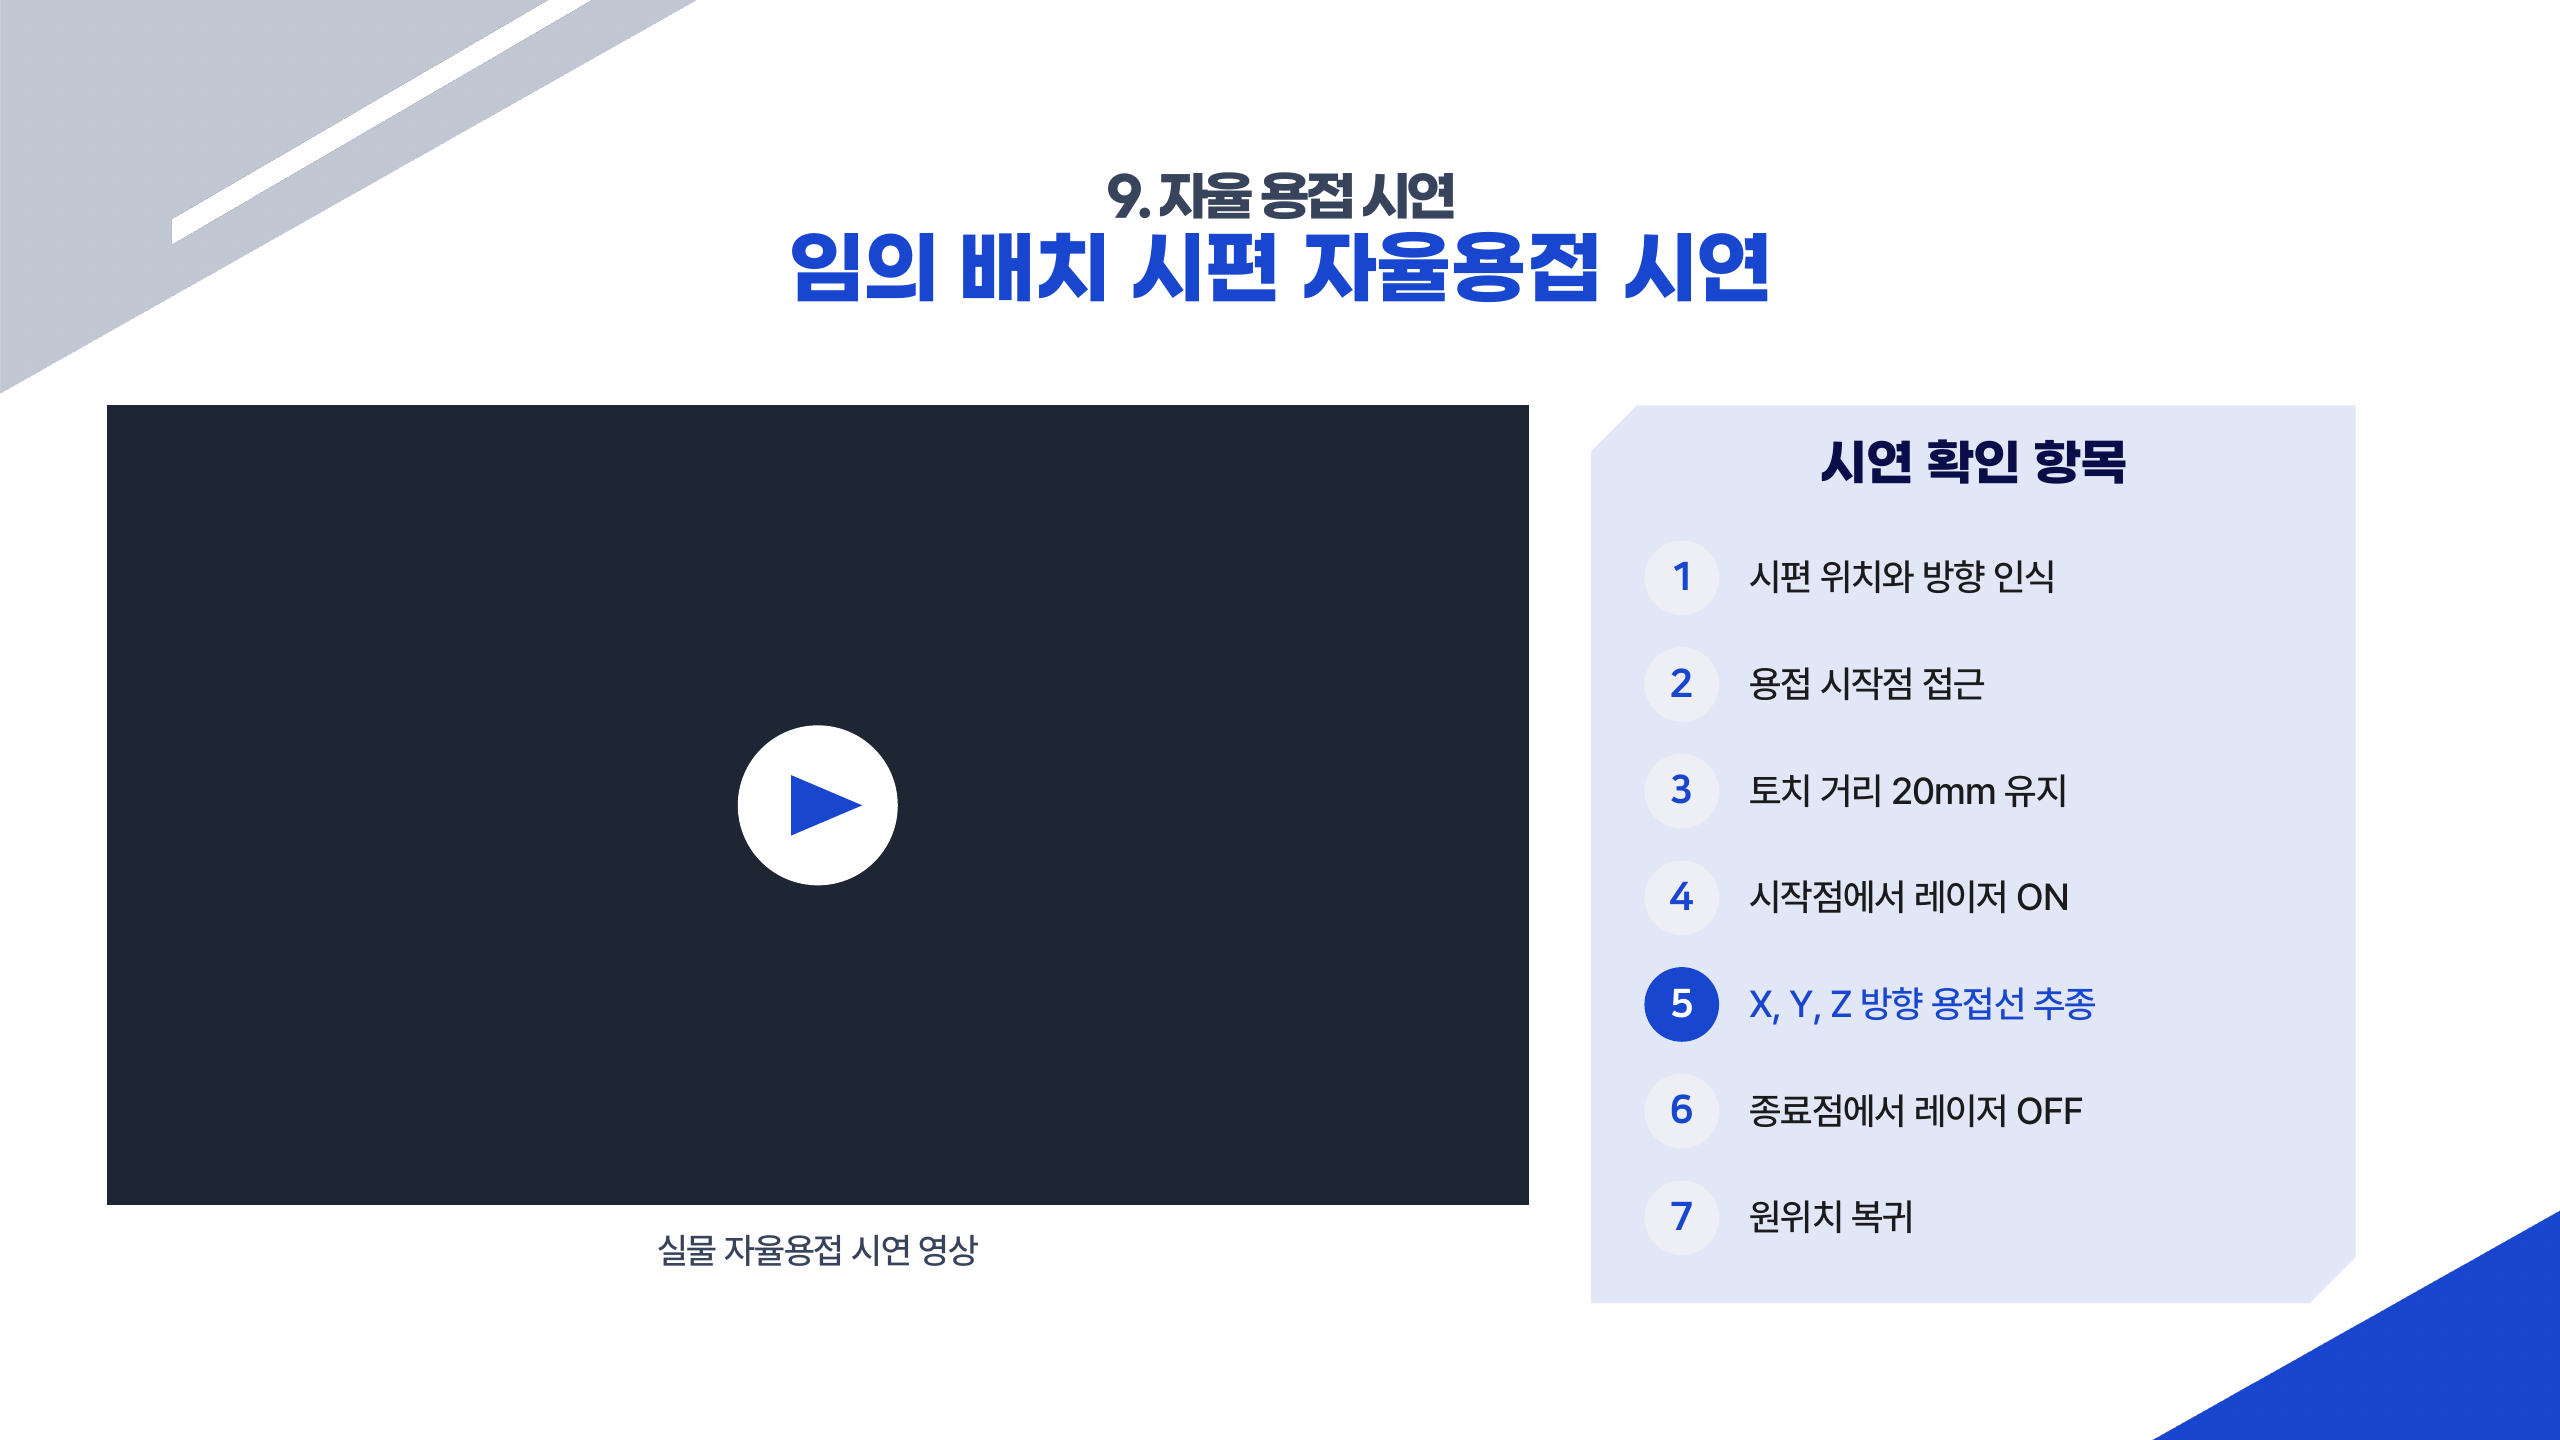
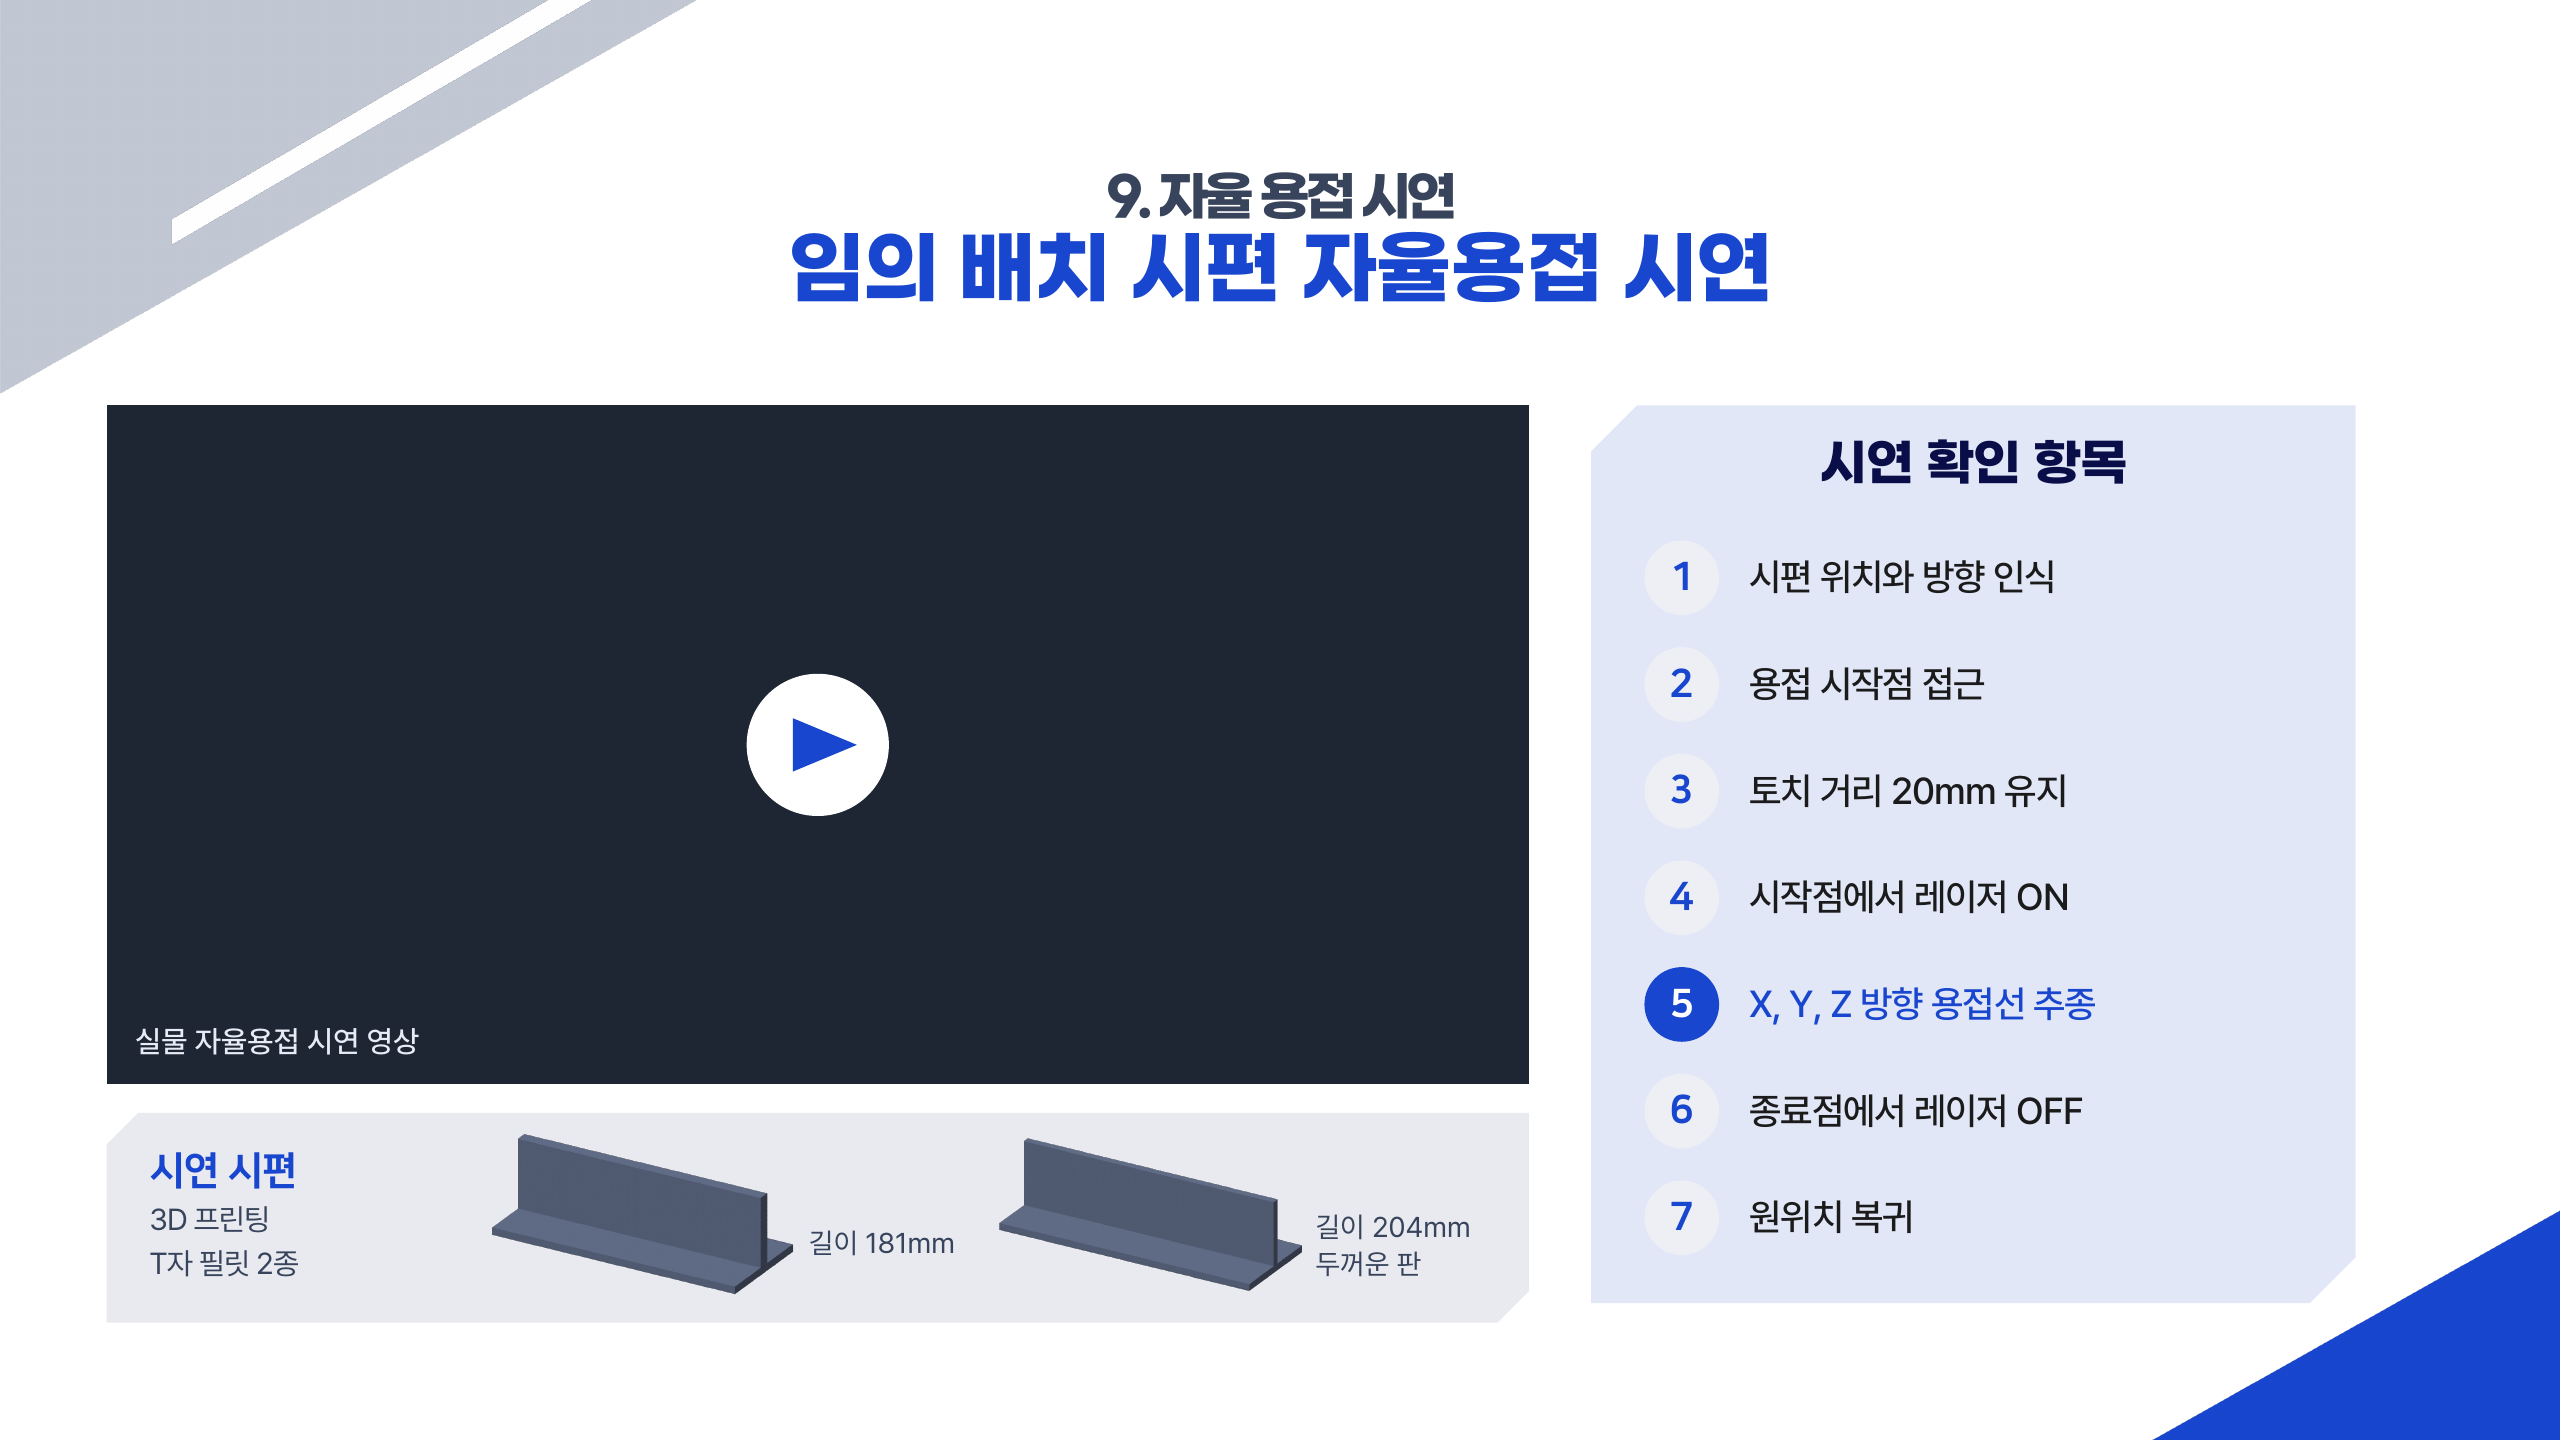
1장 상단 강조 글자 잘림 수정, 9장 새 엔드이펙터 사진과 CAD, 12장 시연 시편 추가

Changed region(s): [[0.0312, 0.7188, 0.625, 0.9062], [0.2812, 0.4688, 0.375, 0.625]]

diff --git a/index.html b/index.html
@@ -47,10 +47,10 @@
   <img class="slide" src="deck/final/06.png" alt="4. 개발 목표 및 차별성" loading="lazy">
   <img class="slide" src="deck/final/07.png" alt="5. 개발 대상 및 자율 작업 시나리오" loading="lazy">
   <img class="slide" src="deck/final/08.png" alt="6. 시스템 구성 및 하드웨어 설계: 자율용접 로봇 시스템 아키텍처" loading="lazy">
-  <img class="slide" src="deck/final/09.png" alt="6. 시스템 구성 및 하드웨어 설계: 하드웨어 설계. 매니퓰레이터, 엔드이펙터, 레이저 모듈, 레이저 ON/OFF, 카메라" loading="lazy">
+  <img class="slide" src="deck/final/09.png" alt="6. 시스템 구성 및 하드웨어 설계: 하드웨어 설계. 레이저 일체형 엔드이펙터 실물 사진과 CAD, 매니퓰레이터, 엔드이펙터, 레이저 ON/OFF, 카메라" loading="lazy">
   <img class="slide" src="deck/final/10.png" alt="7. 실시간 작업 모니터링: 웹 대시보드로 보는 영상과 로봇 상태" loading="lazy">
   <img class="slide" src="deck/final/11.png" alt="8. ACT 기반 모방학습 및 자율 제어: 시연, 기록, ACT 학습, 자율 실행" loading="lazy">
-  <img class="slide" src="deck/final/12.png" alt="9. 자율 용접 시연: 임의 배치 시편 자율용접 시연과 확인 항목" loading="lazy">
+  <img class="slide" src="deck/final/12.png" alt="9. 자율 용접 시연: 임의 배치 시편 자율용접 시연, 3D 프린팅 T자 필릿 시편 2종, 확인 항목" loading="lazy">
   <img class="slide" src="deck/final/13.png" alt="10. 결론 및 향후 과제" loading="lazy">
   <img class="slide" src="deck/final/14.png" alt="10. 결론 및 향후 과제: 한계점과 향후 과제" loading="lazy">
 </main>
